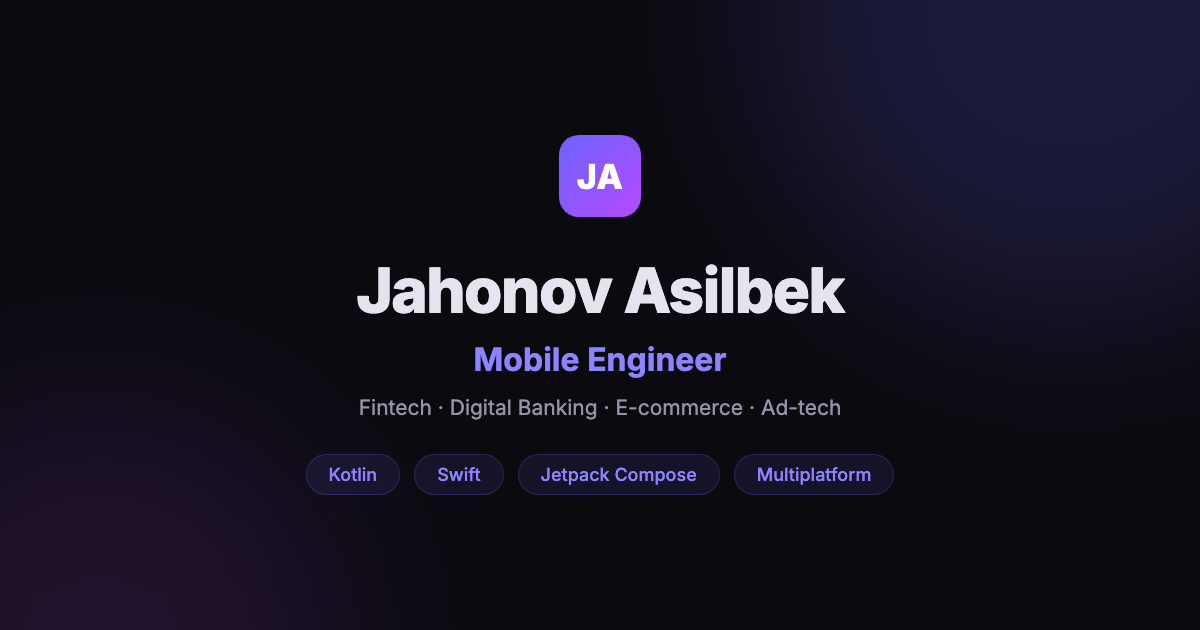
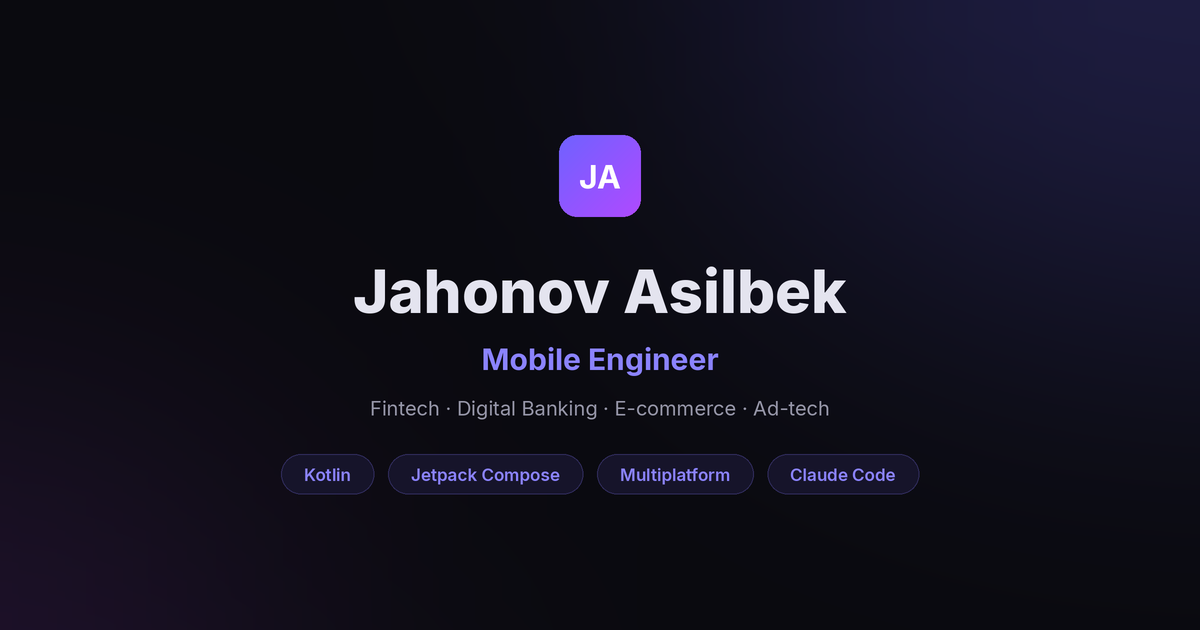
Update site from latest CV
- Mikrokreditbank: 130K+ user growth, 400+ test files, AI-assisted
  engineering (Claude Code rules, 10 custom skills, pre-push quality
  gate, AI-maintained docs), MKB UI Core and Mavrid Kids
- Add Orient Advertisement LLC (part-time, May–Sep 2026): Android TV
  digital-signage player on 3,000+ devices
- Bump companies to 8; add AI paragraph to About
- Drop Swift (no longer on CV); replace Libraries with AI Tooling skills
- Refresh meta, keywords and JSON-LD
- Regenerate og-image.png with Claude Code tag instead of Swift
- Ignore local CV source files (*.pdf, *.rtf)

diff --git a/index.html b/index.html
@@ -3,8 +3,8 @@
 <head>
     <meta charset="UTF-8">
     <meta name="viewport" content="width=device-width, initial-scale=1.0">
-    <meta name="description" content="Jahonov Asilbek — Mobile Engineer with 5+ years of experience in fintech, digital banking, e-commerce and ad-tech. Kotlin, Swift, Jetpack Compose, Kotlin Multiplatform, cross-platform SDKs. Based in Tashkent, Uzbekistan.">
-    <meta name="keywords" content="Jahonov Asilbek, Asilbek Jahonov, Mobile Engineer, Android Developer, Kotlin Developer, Swift, iOS, Jetpack Compose, Kotlin Multiplatform, Compose Multiplatform, Flutter, React Native, SDK Development, Fintech, Digital Banking, Tashkent, Uzbekistan, MVVM, MVI, Clean Architecture, Multi-Module">
+    <meta name="description" content="Jahonov Asilbek — Mobile Engineer with 5+ years of experience in fintech, digital banking, e-commerce and ad-tech. Kotlin, Jetpack Compose, Kotlin Multiplatform, cross-platform SDKs and AI-assisted development with Claude Code. Based in Tashkent, Uzbekistan.">
+    <meta name="keywords" content="Jahonov Asilbek, Asilbek Jahonov, Mobile Engineer, Android Developer, Kotlin Developer, Jetpack Compose, Kotlin Multiplatform, Compose Multiplatform, Flutter, React Native, SDK Development, Fintech, Digital Banking, Tashkent, Uzbekistan, MVVM, MVI, Clean Architecture, Multi-Module, Claude Code, AI-Assisted Development">
     <meta name="author" content="Jahonov Asilbek">
     <meta name="robots" content="index, follow">
     <link rel="canonical" href="https://jahonov.uz/">
@@ -45,7 +45,7 @@
         "name": "Jahonov Asilbek",
         "alternateName": ["Asilbek Jahonov", "Жахонов Асилбек"],
         "jobTitle": "Mobile Engineer",
-        "description": "Mobile Engineer with 5+ years of experience building production mobile apps across fintech, digital banking, e-commerce, and ad-tech using Kotlin, Jetpack Compose, multi-module architecture, Kotlin Multiplatform, and cross-platform SDKs for Flutter and React Native.",
+        "description": "Mobile Engineer with 5+ years of experience building production mobile apps across fintech, digital banking, e-commerce, and ad-tech using Kotlin, Jetpack Compose, multi-module architecture, Kotlin Multiplatform, and cross-platform SDKs for Flutter and React Native, with AI-assisted development workflows built on Claude Code.",
         "url": "https://jahonov.uz",
         "email": "asilbekjahonov2001@gmail.com",
         "telephone": "+998909920850",
@@ -59,7 +59,7 @@
             "https://github.com/jahonovasilbek",
             "https://linkedin.com/in/jahonovasilbek"
         ],
-        "knowsAbout": ["Android Development", "iOS Development", "Kotlin", "Java", "Swift", "Jetpack Compose", "Compose Multiplatform", "Kotlin Multiplatform", "Multi-Module Architecture", "MVVM", "MVI", "Clean Architecture", "Jetpack Navigation", "Koin", "Hilt", "Dagger2", "Ktor", "Retrofit", "Room", "Coroutines", "Flow", "Flutter", "React Native", "SDK Development", "CI/CD", "Firebase"],
+        "knowsAbout": ["Android Development", "Kotlin", "Java", "Jetpack Compose", "Compose Multiplatform", "Kotlin Multiplatform", "Multi-Module Architecture", "MVVM", "MVI", "Clean Architecture", "Jetpack Navigation", "Koin", "Hilt", "Dagger2", "Ktor", "Retrofit", "Room", "Coroutines", "Flow", "Flutter", "React Native", "SDK Development", "CI/CD", "Firebase", "Claude Code", "AI-Assisted Development"],
         "alumniOf": [
             {
                 "@type": "EducationalOrganization",
@@ -82,7 +82,7 @@
                 "@type": "Country",
                 "name": "Uzbekistan"
             },
-            "skills": "Kotlin, Java, Swift, SQL, Android SDK, Jetpack Compose, Compose Multiplatform, Kotlin Multiplatform, Multi-Module Architecture, MVVM, MVI, Clean Architecture, Koin, Hilt, Dagger2, Retrofit, Ktor, Room, Coroutines, Flow, Flutter, React Native, CI/CD, Firebase"
+            "skills": "Kotlin, Java, SQL, Android SDK, Jetpack Compose, Compose Multiplatform, Kotlin Multiplatform, Multi-Module Architecture, MVVM, MVI, Clean Architecture, Koin, Hilt, Dagger2, Retrofit, Ktor, Room, Coroutines, Flow, Flutter, React Native, CI/CD, Firebase, Claude Code"
         }
     }
     </script>
@@ -171,7 +171,8 @@
                         <p>I am a <strong>Mobile Engineer</strong> based in <strong>Tashkent, Uzbekistan</strong> with over <strong>5 years of hands-on experience</strong> building production mobile apps across <strong>fintech, digital banking, e-commerce, and ad-tech</strong>.</p>
                         <p>I work primarily in <strong>Kotlin</strong> and <strong>Jetpack Compose</strong>, with <strong>multi-module architecture</strong> (MVVM / MVI), type-safe <strong>Jetpack Navigation</strong>, and dependency injection (Koin / Hilt). I also build cross-platform with <strong>Kotlin Multiplatform</strong> and <strong>Compose Multiplatform</strong>, and have shipped <strong>Android and iOS SDKs</strong> consumed by <strong>Flutter</strong> and <strong>React Native</strong> apps.</p>
                         <p>I own features end-to-end — from architecture and UI through unit / UI testing, CI/CD, and release to Google Play. I have shipped apps with <strong>100K+ downloads</strong> and led large-scale redesigns and architecture migrations inside production banking apps.</p>
-                        <p>Currently working as an <strong>Android Developer at Mikrokreditbank</strong>, where I led the full redesign of the <strong>Mavrid</strong> app and its migration from XML views to Jetpack Compose and a multi-module architecture.</p>
+                        <p>I also build <strong>AI-assisted development workflows with Claude Code</strong> — custom skills, multi-agent code review and automated quality gates that run on every push.</p>
+                        <p>Currently working as an <strong>Android Developer at Mikrokreditbank</strong>, where I led the full redesign of the <strong>Mavrid</strong> app and its migration from XML views to Jetpack Compose and a multi-module architecture, built the bank's Compose design-system library, and shipped the Kotlin Multiplatform <strong>Mavrid Kids</strong> app.</p>
                     </div>
                     <div class="about-stats">
                         <div class="stat-card">
@@ -183,7 +184,7 @@
                             <span class="stat-label">App Downloads</span>
                         </div>
                         <div class="stat-card">
-                            <span class="stat-number">7</span>
+                            <span class="stat-number">8</span>
                             <span class="stat-label">Companies</span>
                         </div>
                         <div class="stat-card">
@@ -214,16 +215,55 @@
                             <ul class="timeline-details">
                                 <li>Led a full redesign of the Mavrid app, migrating the codebase from XML views to Jetpack Compose</li>
                                 <li>Migrated the app from a monolithic structure to a multi-module architecture, improving build times and separation of concerns</li>
-                                <li>App user base grew by 100,000+ within six months of the redesign</li>
-                                <li>Covered the app with unit tests to stabilize core flows and catch regressions early</li>
+                                <li>App user base grew by 130,000+ within six months of the redesign</li>
+                                <li>Grew unit-test coverage to 400+ test files (~130K lines) across feature modules to stabilize core flows and catch regressions early</li>
                                 <li>Set up CI/CD pipelines to automate builds, testing, and releases</li>
+                                <li><strong>AI-assisted engineering:</strong> introduced Claude Code as the daily coding agent, governed by project rules I authored (CLAUDE.md + working agreements): phased plans, mandatory compile/test verification, and Clean Architecture / module-isolation guardrails</li>
+                                <li><strong>Custom AI workflows:</strong> built 10 Claude Code skills that automate recurring work end to end — backend v4 API migration, multi-agent code review with 5–10 parallel reviewers and adversarial verification, review-fix, unit-test generation, GitLab MR inline review, APK builds and branch sync</li>
+                                <li><strong>AI quality gate:</strong> added a pre-push hook that runs unit tests for changed modules, enforces Clean Architecture layer rules, and has Claude review the Kotlin diff — blocking pushes on real bugs, threading mistakes and leaks</li>
+                                <li><strong>AI-maintained documentation:</strong> kept ~50 per-module technical docs, a testing guide and an API-migration guide in sync with the code, used as context by both developers and AI agents</li>
+                                <li><strong>MKB UI Core:</strong> built the bank's Jetpack Compose design-system library from scratch in ~2 months — 15 components, 165 icons, multi-brand light/dark design tokens, 87 Roborazzi screenshot tests, explicit-API surface, and GitLab CI publishing to a private Maven registry; consumed by 4 apps</li>
+                                <li><strong>Mavrid Kids:</strong> built a Kotlin Multiplatform children's banking app (shared ViewModels and logic for Android &amp; iOS, 28 modules, ~22K LOC, 270 unit tests) in ~2 weeks with an AI-first workflow: Figma-to-code skill, ~10-agent parallel code review with a verifier agent, and on-device verification over adb</li>
                             </ul>
                             <div class="timeline-tags">
                                 <span class="tag">Jetpack Compose</span>
                                 <span class="tag">Multi-Module</span>
+                                <span class="tag">KMP</span>
+                                <span class="tag">Design System</span>
                                 <span class="tag">Unit Testing</span>
                                 <span class="tag">CI/CD</span>
+                                <span class="tag">Claude Code</span>
                                 <span class="tag">Fintech</span>
+                            </div>
+                        </div>
+                    </article>
+
+                    <article class="timeline-item">
+                        <div class="timeline-marker"></div>
+                        <div class="timeline-content">
+                            <div class="timeline-header">
+                                <div>
+                                    <h3 class="timeline-role">Android Developer (Part-time)</h3>
+                                    <p class="timeline-company">Orient Advertisement LLC <span class="timeline-domain">· Digital signage / Ad-tech</span></p>
+                                </div>
+                                <span class="timeline-date">May 2026 — Sep 2026</span>
+                            </div>
+                            <ul class="timeline-details">
+                                <li>Built a native Android TV-box digital-signage player running on 3,000+ devices across Korzinka stores, all airports in Uzbekistan and city billboards</li>
+                                <li><strong>Synchronized playback:</strong> screens switch content on a server-anchored shared clock, with upcoming media prefetched and swapped in at the scheduled time</li>
+                                <li><strong>Offline-first sync:</strong> WebSocket push with polling fallback, resumable downloads (HTTP Range), staged playlist swaps, storage checks and per-file download-state reporting</li>
+                                <li><strong>Remote fleet management:</strong> real-time command channel (reboot, volume, playback, content assignment, diagnostics) with cross-channel deduplication and a persistent confirmation queue, plus live remote screen sessions</li>
+                                <li><strong>Kiosk &amp; resilience:</strong> Device Owner lockdown, crash recovery, boot autostart, a foreground service for playback and control, and heartbeat telemetry for unattended devices</li>
+                                <li><strong>Quality &amp; AI:</strong> ~695 unit tests (~14.5K lines); built with Claude Code using custom skills for task intake, on-device smoke tests and backend-contract conformance checks</li>
+                            </ul>
+                            <div class="timeline-tags">
+                                <span class="tag">Android TV</span>
+                                <span class="tag">Media3 / ExoPlayer</span>
+                                <span class="tag">WebSocket</span>
+                                <span class="tag">Hilt</span>
+                                <span class="tag">Room</span>
+                                <span class="tag">WorkManager</span>
+                                <span class="tag">Claude Code</span>
                             </div>
                         </div>
                     </article>
@@ -409,7 +449,6 @@
                         <div class="skill-tags">
                             <span>Kotlin</span>
                             <span>Java</span>
-                            <span>Swift</span>
                             <span>SQL</span>
                         </div>
                     </div>
@@ -491,14 +530,16 @@
 
                     <div class="skill-category">
                         <div class="skill-icon">
-                            <svg width="28" height="28" viewBox="0 0 24 24" fill="none" stroke="currentColor" stroke-width="2"><path d="M4 19.5A2.5 2.5 0 0 1 6.5 17H20"/><path d="M6.5 2H20v20H6.5A2.5 2.5 0 0 1 4 19.5v-15A2.5 2.5 0 0 1 6.5 2z"/></svg>
+                            <svg width="28" height="28" viewBox="0 0 24 24" fill="none" stroke="currentColor" stroke-width="2"><path d="M12 3l1.9 5.1L19 10l-5.1 1.9L12 17l-1.9-5.1L5 10l5.1-1.9z"/><path d="M19 15l.8 2.2L22 18l-2.2.8L19 21l-.8-2.2L16 18l2.2-.8z"/></svg>
                         </div>
-                        <h3>Libraries</h3>
+                        <h3>AI Tooling</h3>
                         <div class="skill-tags">
-                            <span>Glide</span>
-                            <span>Voyager</span>
-                            <span>Moko</span>
-                            <span>Yandex Ads SDK</span>
+                            <span>Claude Code</span>
+                            <span>Custom Skills</span>
+                            <span>Parallel Sub-agents</span>
+                            <span>Multi-agent Code Review</span>
+                            <span>AI Pre-push Hooks</span>
+                            <span>Figma-to-Code</span>
                         </div>
                     </div>
 
@@ -536,6 +577,7 @@
                             <span>JUnit</span>
                             <span>Unit Testing</span>
                             <span>UI Testing</span>
+                            <span>Roborazzi</span>
                             <span>Code Review</span>
                         </div>
                     </div>
